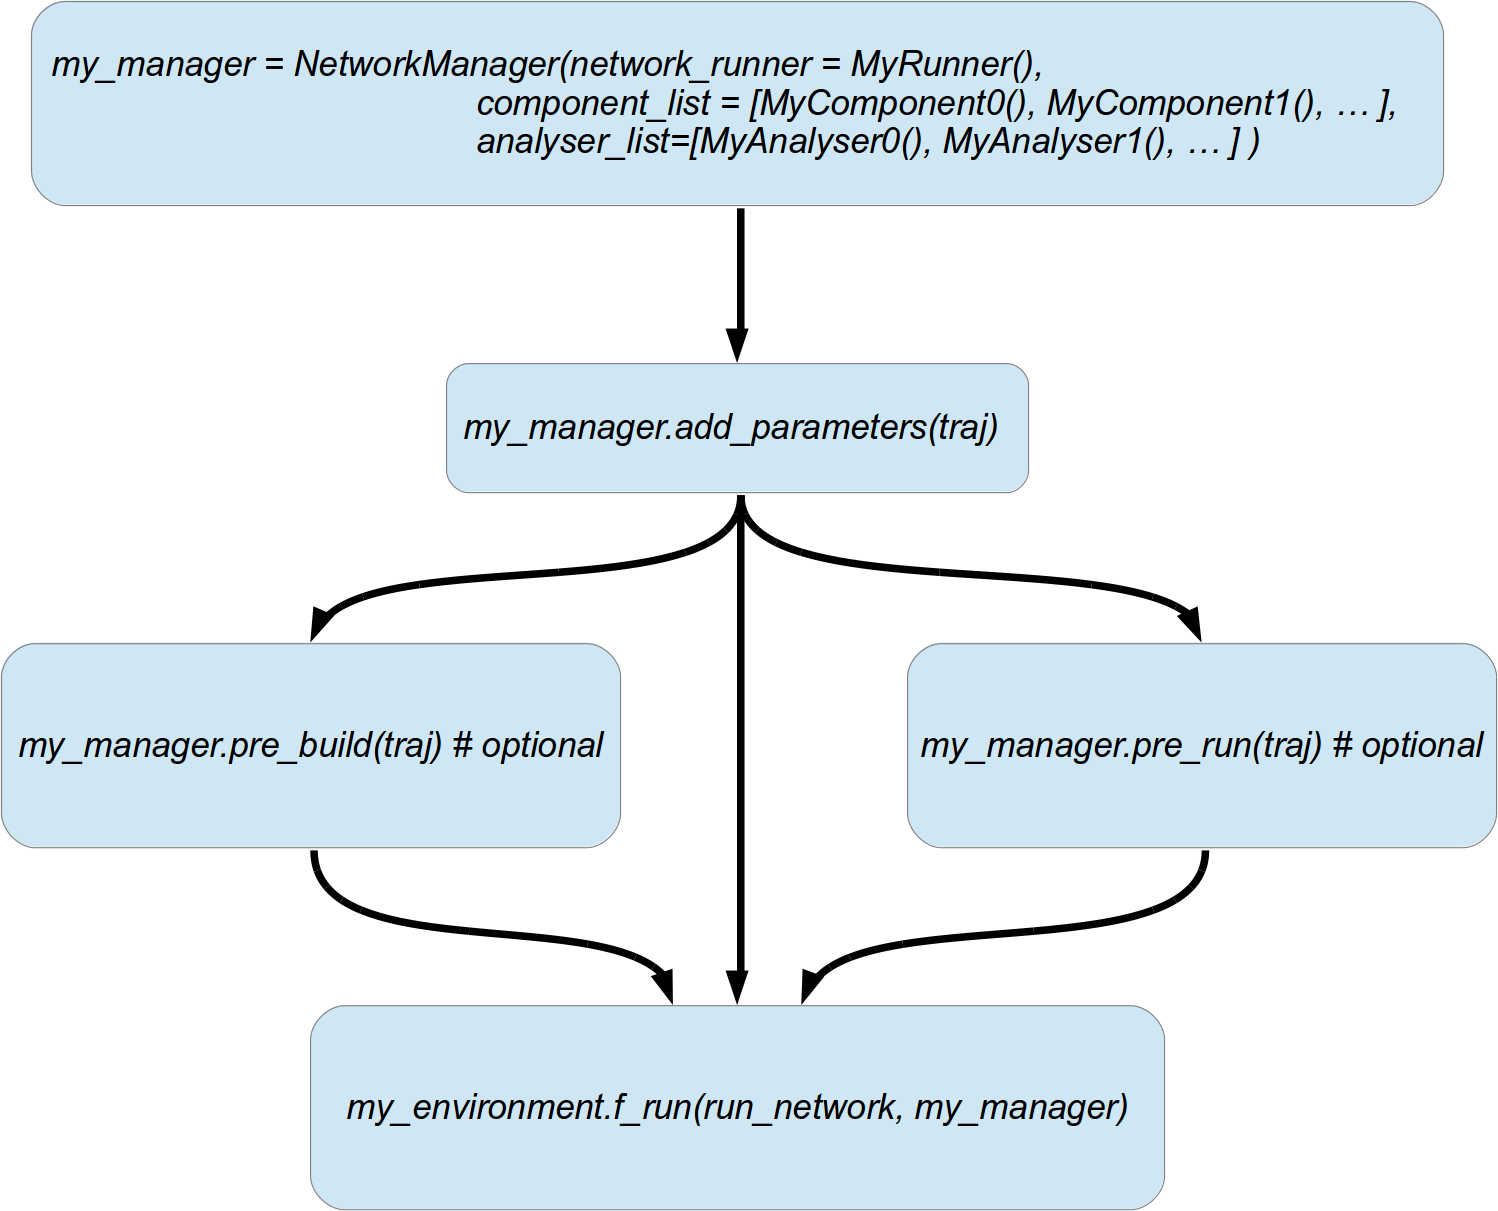
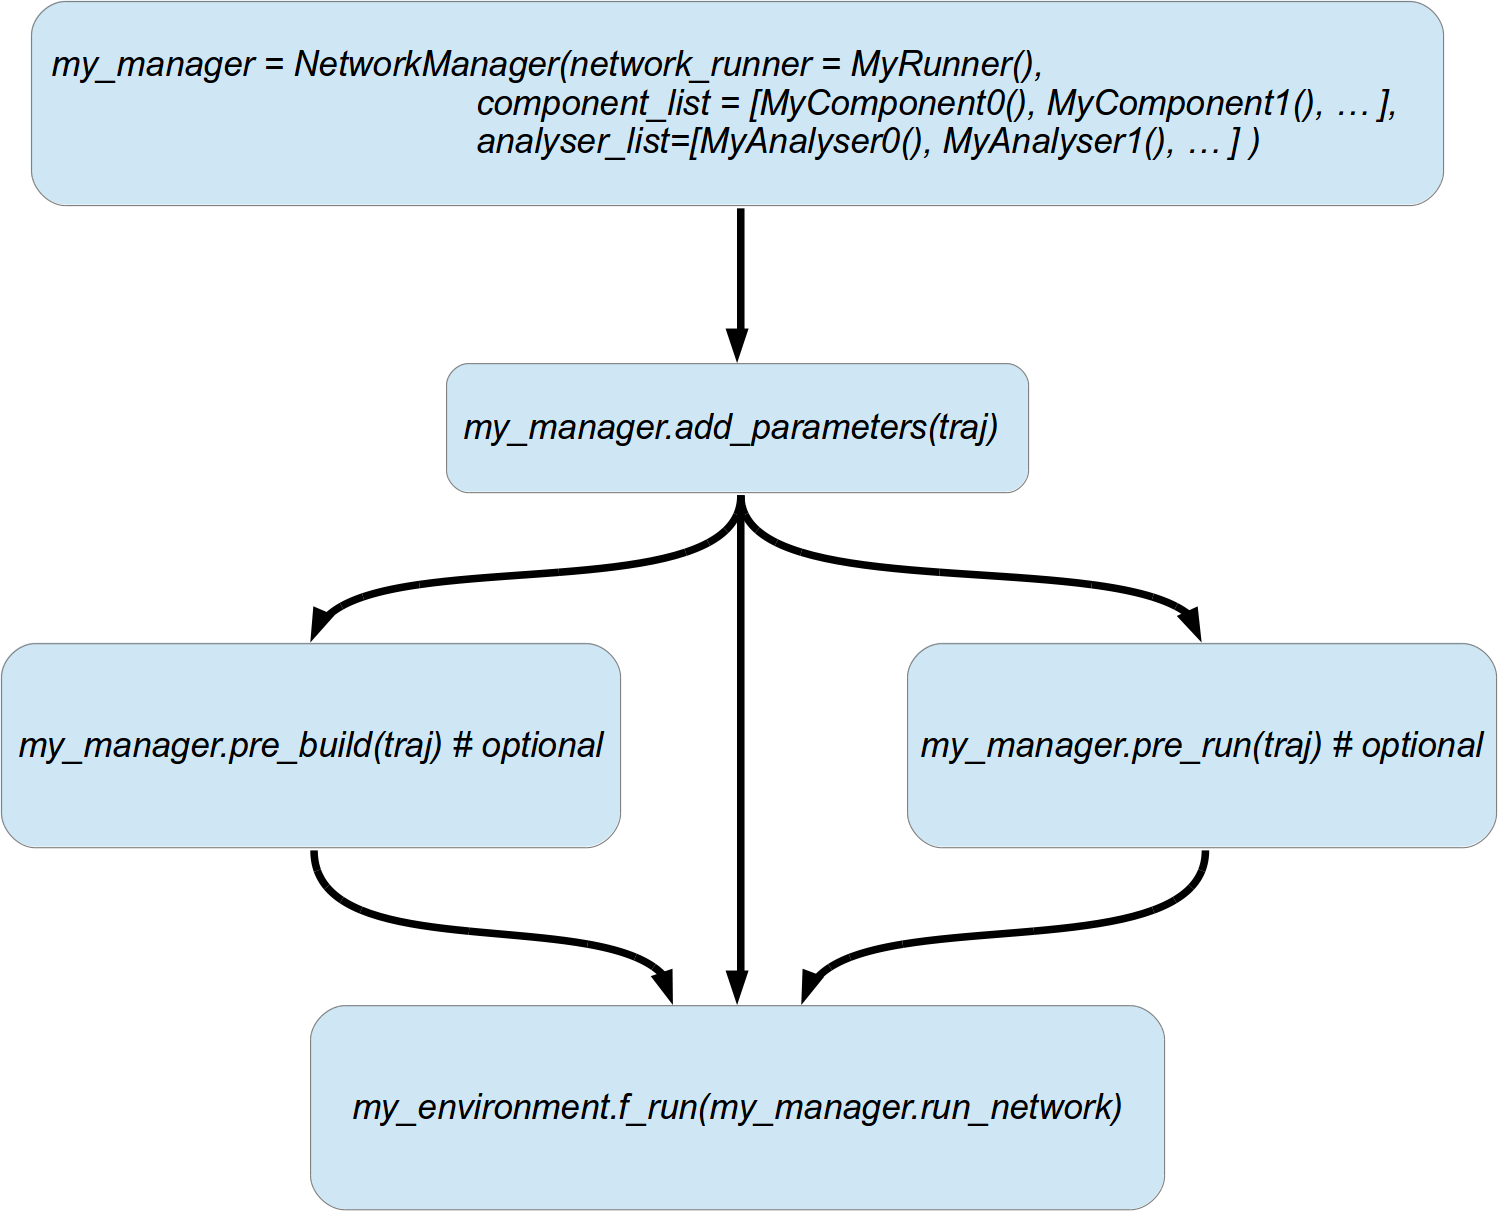
Changed how to pass the top-level function of the brian network management system to the environment

Changed region(s): [[0.215, 0.886, 0.7677, 0.9472]]

diff --git a/pypet/brian/network.py b/pypet/brian/network.py
@@ -33,10 +33,14 @@ from brian import Network, clear, reinit
 from brian.units import second
 
 from pypet.brian.parameter import BrianDurationParameter
+from pypet.utils.decorators import deprecated
 
-
+@deprecated('Please use `environment.f_run(manager.run_network)` instead of '
+            '`environment.f_run(run_network, manager)`.')
 def run_network(traj, network_manager):
     """Top-level simulation function, pass this together with a NetworkManager to the environment.
+
+    DEPRECATED: Please pass `network_manager.run_network` to the environment's `f_run` function
 
     :param traj: Trajectory container
 
@@ -783,7 +787,9 @@ class NetworkManager(object):
 
 
     def run_network(self, traj):
-        """Performs an individual network run during parameter exploration.
+        """Top-level simulation function, pass this to the environment
+
+        Performs an individual network run during parameter exploration.
 
         `run_network` does not need to be called by the user. If the top-level
         `~pypet.brian.network.run_network` method (not this one of the NetworkManager)

diff --git a/examples/example_11_large_scale_brian_simulation/runscript.py b/examples/example_11_large_scale_brian_simulation/runscript.py
@@ -66,7 +66,7 @@ def main():
     clustered_network_manager.pre_build(traj)
 
     # Run the network simulation
-    env.f_run(run_network, clustered_network_manager)
+    env.f_run(clustered_network_manager.run_network)
 
 
 if __name__=='__main__':

diff --git a/README.md b/README.md
@@ -9,17 +9,17 @@ and data storage into HDF5 files for you.
 IMPORTANT!
 ===========================
 
+
 The program is currently under development,
 please keep that in mind and use it very carefully.
 
 Before publishing the official *0.1.0* release I will integrate *pypet* first in my own research
 project. Thus, I have a more profound testing environment than only using
-unittests. Accordingly, you still have to deal with the naming *0.1b.X* probably until beginning
-of next year.
+unittests. Accordingly, you still have to deal with the naming *0.1b.X* for a little while.
 However, unless it is really, really, really necessary I do not plan to change the API anymore.
 So feel free to use this beta version and feel free to give feedback,
 suggestions, and report bugs. Either write my an email (robert.meyer (at) ni.tu-berlin.de)
-or preferably use github (https://github.com/SmokinCaterpillar/pypet) issues :-)
+or preferably use **github** (https://github.com/SmokinCaterpillar/pypet) issues :-)
 
 Thanks!
 

diff --git a/doc/source/cookbook/brian.rst b/doc/source/cookbook/brian.rst
@@ -132,7 +132,7 @@ you also need to include these following steps.
         for every stimulus, you can perform it once as a *pre run* and use the network after
         the *pre run* for every stimulus input.
 
-    *   Pass the :func:`~pypet.brian.network.run_network` and your manager function to
+    *   Pass the :func:`~pypet.brian.network.NetworkManger.run_network` to
         your environment's :func:`~pypet.environment.f_run` to start parameter exploration.
         This will automatically initiate the `build(traj)` method for all your components,
         analysers and your runner in every single run. Subsequently, your network will be
@@ -176,7 +176,7 @@ An example *main script* might look like the following:
     my_manager.pre_build(traj)
 
     # Run the network simulation
-    env.f_run(run_network, my_manager)
+    env.f_run(my_manager.run_network)
 
 
 ^^^^^^^^^^^^^^^^^^^^^^^^^^^^^^^^^^^^^^^^^
